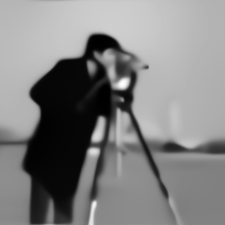
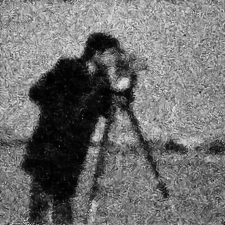
update params

diff --git a/test.py b/test.py
@@ -6,12 +6,14 @@ import numpy as np
 import torch
 
 
-denoiser_param = 1/255**2
+denoiser_param = 100/255**2
 sigma_destruction = 3/255
 physics = ULAIterator.get_physics(sigma_noise=sigma_destruction, device='cpu')
+
+
 L=1
 Ly = ULAIterator.power_iteration(physics, num_iterations=100)/sigma_destruction**2
-delta = 0.1/(L/denoiser_param + Ly)
+delta = 0.5/(L/denoiser_param + Ly)
 
 
 algo_params_default = {
@@ -43,9 +45,7 @@ for i in range(n_iter):
 
     if i % 100 == 0:
         print(f"Iteration {i}")
-        
-    if i % 100 == 0:
-        plt.imsave(f"debug/debug_{i}.png", img_temp.squeeze().cpu().numpy(), cmap="gray")
+        plt.imsave(f"debug/debug_{i}.png", img_temp.squeeze().cpu().numpy(), cmap="gray")        
 
     img_temp = ula.step(img_temp, img_blurred)
     if i >= burn_in:

diff --git a/src/ULA_class.py b/src/ULA_class.py
@@ -81,7 +81,7 @@ class ULAIterator():
         Z = torch.randn_like(X)
         
         # Denoiser (DnCNN)
-        D = self.dncnn(X, self.denoiser_param)
+        D = self.dncnn(X, np.sqrt(self.denoiser_param))
         
         # Gradient de la vraisemblance
         grad_L = self.likelihood_grad(X, y)
